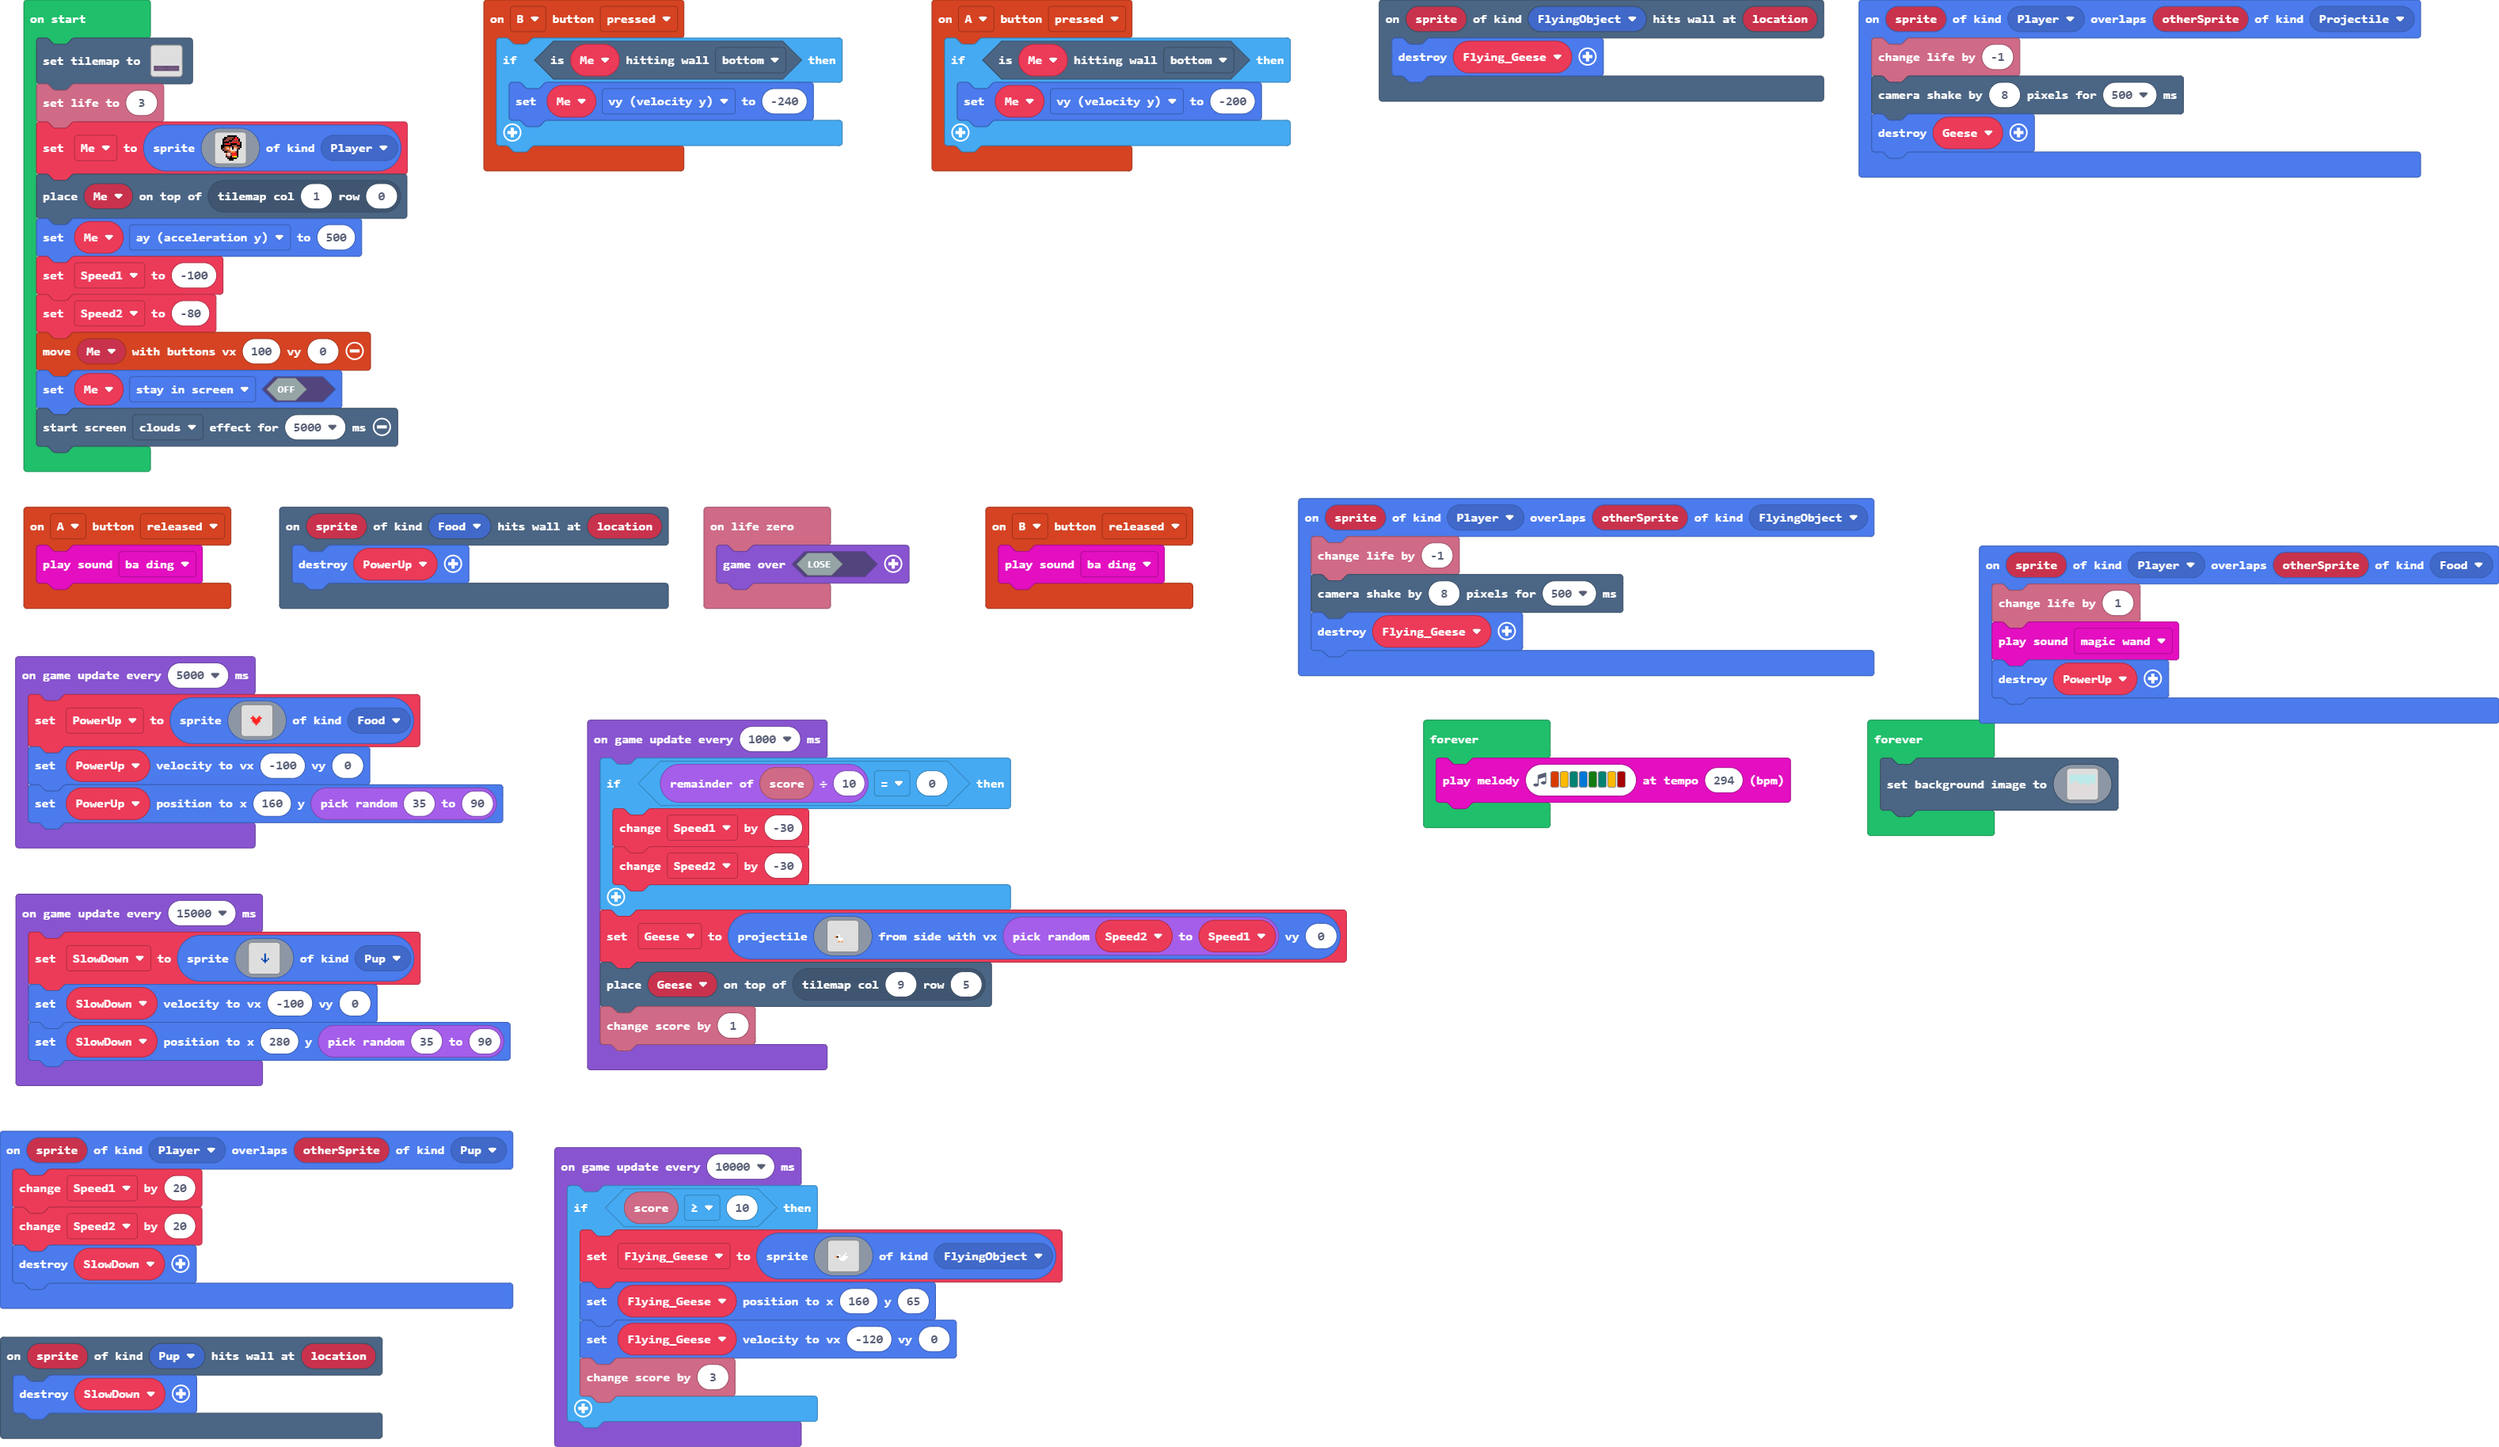
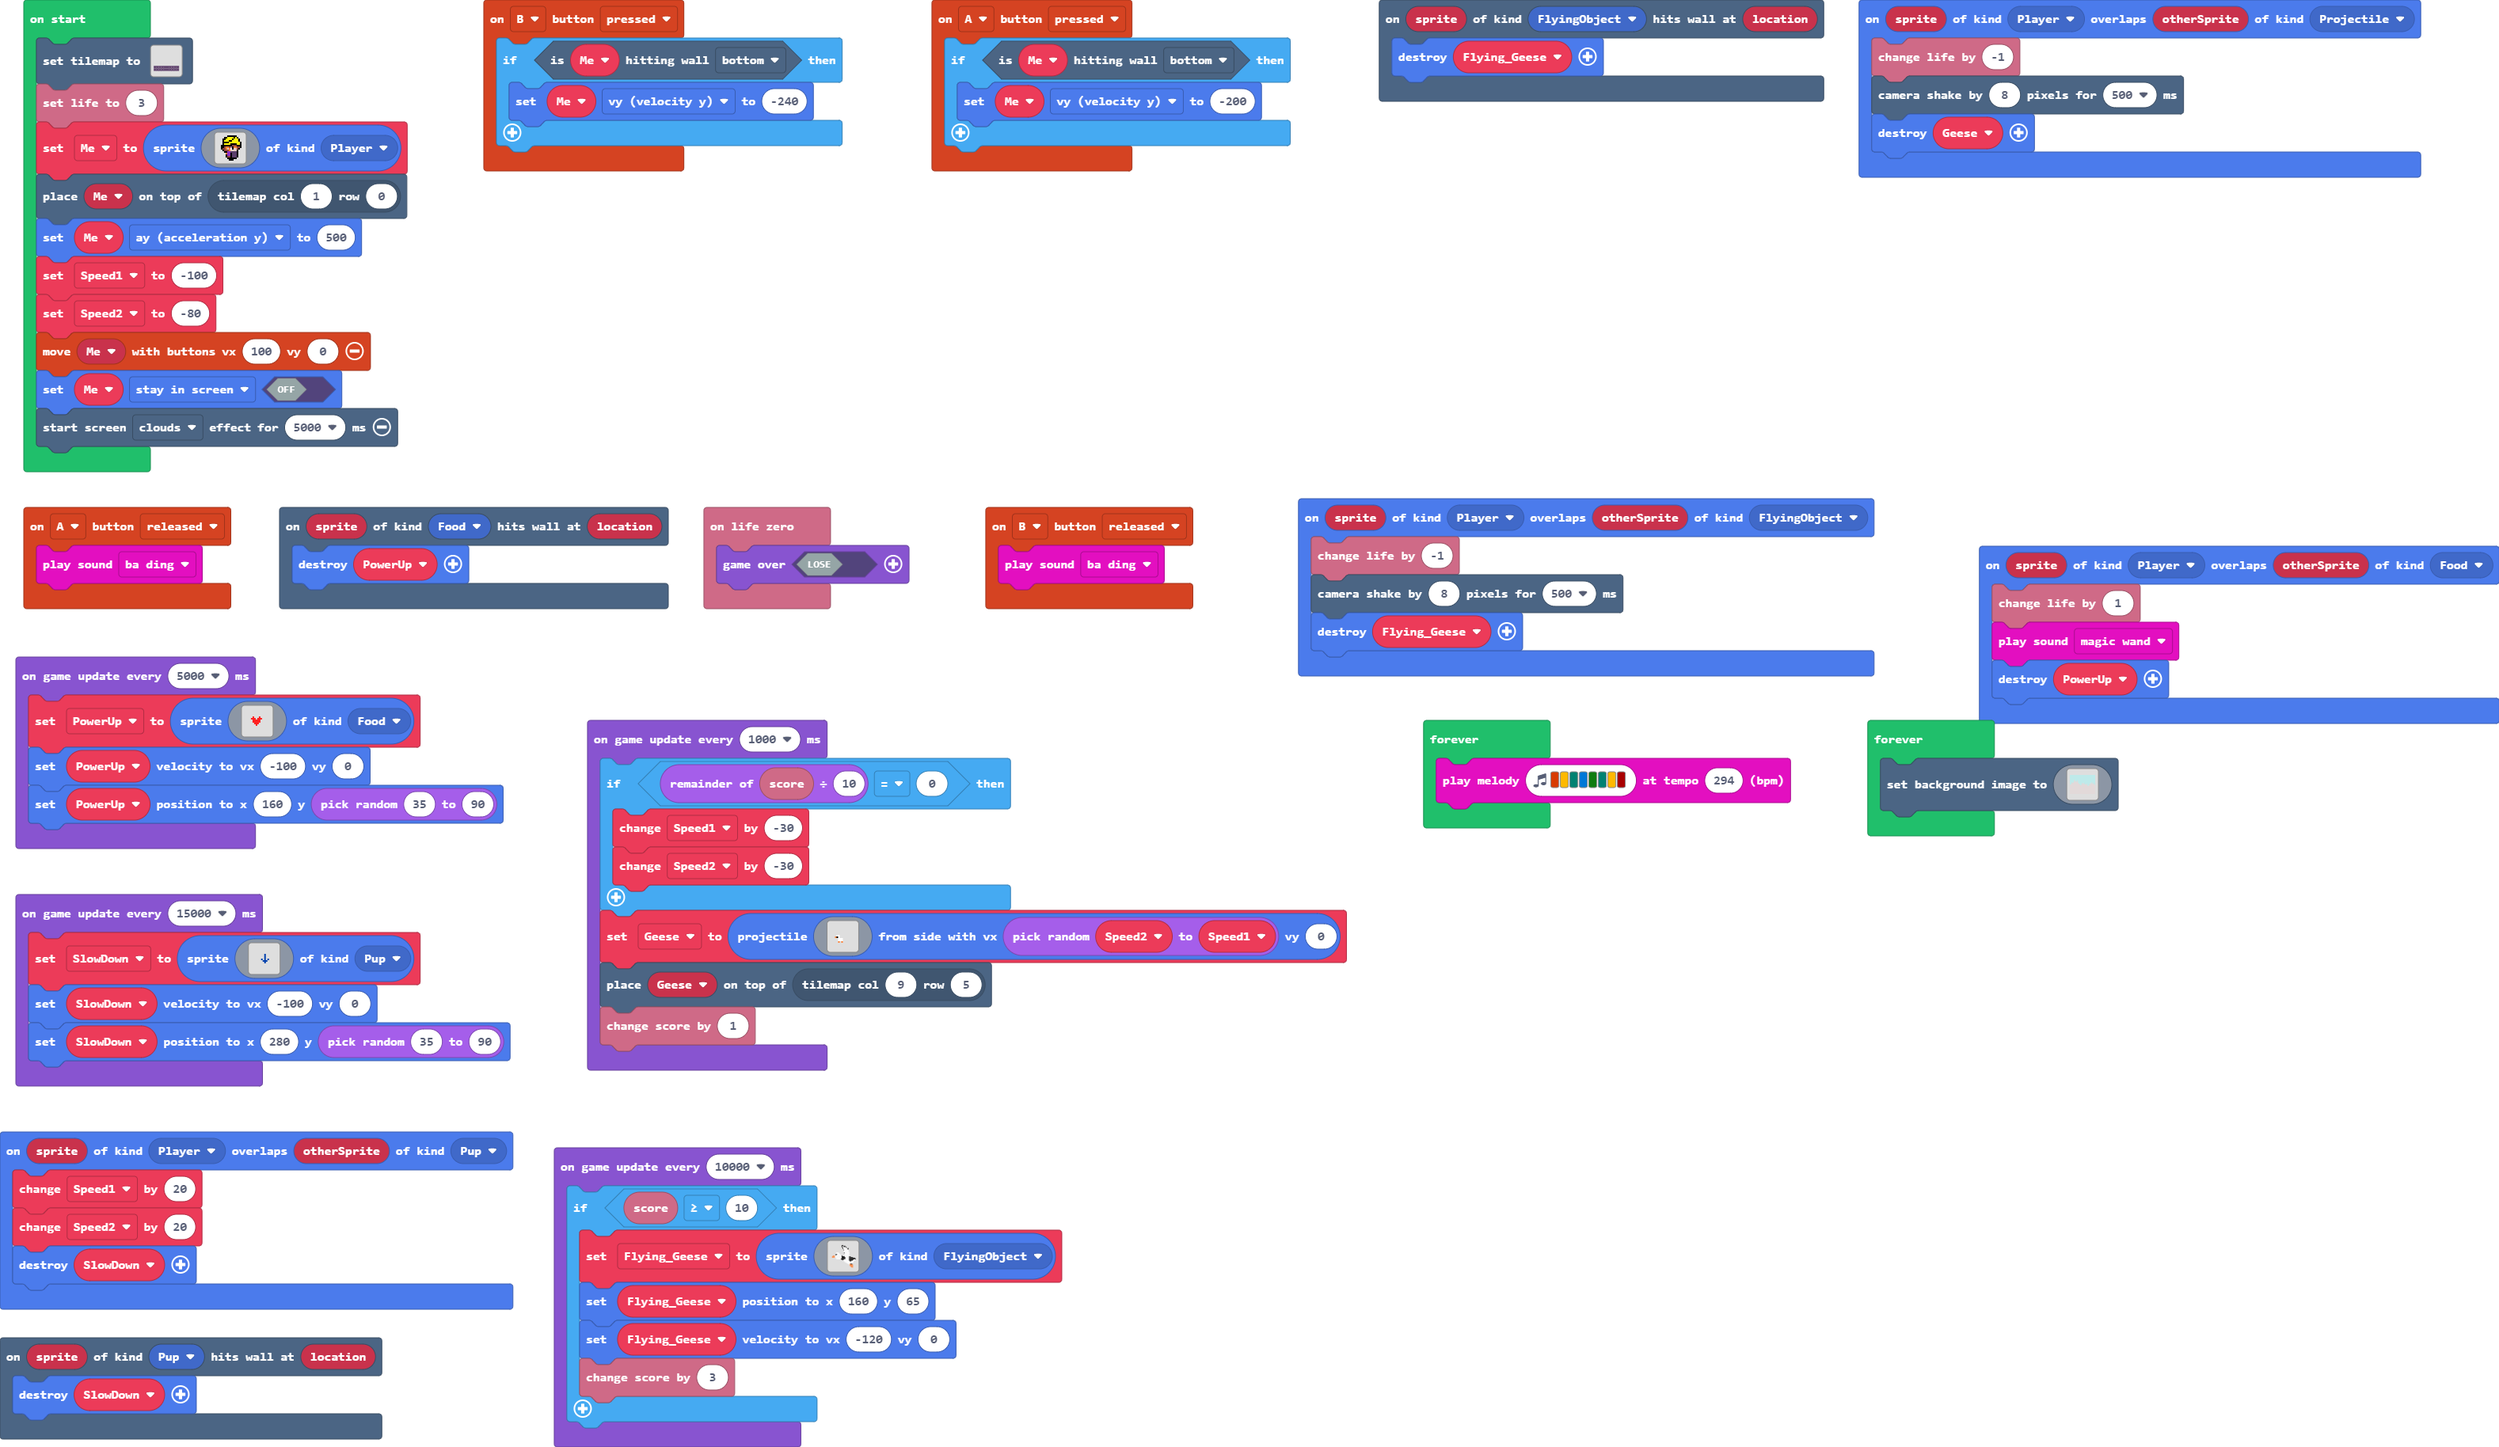
Geese

diff --git a/main.ts b/main.ts
@@ -69,19 +69,19 @@ tiles.setTilemap(tiles.createTilemap(hex`0a0008000000000000000000000000000000000
 info.setLife(3)
 Me = sprites.create(img`
     . . . . . . f f f f f f . . . . 
-    . . . . f f e e e e f 2 f . . . 
-    . . . f f e e e e f 2 2 2 f . . 
-    . . . f e e e f f e e e e f . . 
-    . . . f f f f e e 2 2 2 2 e f . 
-    . . . f e 2 2 2 f f f f e 2 f . 
+    . . . . f f 5 5 5 5 f 5 f . . . 
+    . . . f f 5 5 5 5 f 5 5 5 f . . 
+    . . . f 5 5 5 f f 5 5 5 5 f . . 
+    . . . f f f f 5 5 5 5 5 5 5 f . 
+    . . . f 5 5 5 5 f f f f 5 5 f . 
     . . f f f f f f f e e e f f f . 
     . . f f e 4 4 e b f 4 4 e e f . 
     . . f e e 4 d 4 1 f d d e f . . 
     . . . f e e e 4 d d d d f . . . 
-    . . . . f f e e 4 4 4 e f . . . 
-    . . . . . 4 d d e 2 2 2 f . . . 
-    . . . . . e d d e 2 2 2 f . . . 
-    . . . . . f e e f 4 5 5 f . . . 
+    . . . . f f a a c c c c f . . . 
+    . . . . . 4 a a f c c c f . . . 
+    . . . . . f a a f c c c f . . . 
+    . . . . . f e e f c c c f . . . 
     . . . . . . f f f f f f . . . . 
     . . . . . . . f f f . . . . . . 
     `, SpriteKind.Player)
@@ -292,22 +292,37 @@ forever(function () {
 game.onUpdateInterval(10000, function () {
     if (info.score() >= 10) {
         Flying_Geese = sprites.create(img`
-            . . . . . . . . . . . . . . . . 
-            . . . . . . . . . . . . . . . . 
-            . . . . . . . . . . . . . . . . 
-            . . . . . . . . . . . . . . . . 
-            . . . . . . . . . . . . . . . . 
-            . . . . . . . . . . . . . . . . 
-            . . . . . . . . . 1 . . . . . . 
-            . . . . 1 1 . . 1 . . . . . . . 
-            . . . 4 f 1 . 1 1 1 1 . . . . . 
-            . . . . . 1 1 1 1 1 . . . . . . 
-            . . . . . . 1 1 1 . . . . . . . 
-            . . . . . . . . . . . . . . . . 
-            . . . . . . . . . . . . . . . . 
-            . . . . . . . . . . . . . . . . 
-            . . . . . . . . . . . . . . . . 
-            . . . . . . . . . . . . . . . . 
+            ..................................
+            ...............ff.................
+            ...............f1fff..............
+            ...............f11f1f.............
+            ................f1111f1...........
+            ................f111111f..........
+            .................111111f..........
+            .................f111111..........
+            ..................111111..........
+            ..................111111..........
+            ..................1111111.........
+            ........111.......f111111.........
+            .......11111.......111111.........
+            .......ff1111......111111.........
+            ......1f111111.....111111.........
+            ...444111111111f...111111.........
+            ..4444111111111ffff111111ff.......
+            ..4444111111111fffff11111fffff....
+            .......11111111fffff11111ffffffff.
+            ........111111ffffff11111fffffffff
+            ...............fff1111111ffffff11.
+            .................11111111fffff11..
+            ..................11111111ff111...
+            ...................111111111111...
+            .....................111111111....
+            .......................111111.....
+            .........................14ff.....
+            ..........................4444....
+            ..........................4444....
+            ...........................444....
+            ............................44....
             `, SpriteKind.FlyingObject)
         Flying_Geese.setPosition(160, 65)
         Flying_Geese.setVelocity(-120, 0)

diff --git a/tilemap.g.ts b/tilemap.g.ts
@@ -5,7 +5,7 @@ namespace myTiles {
 
     helpers.registerTilemapFactory(function(name: string) {
         switch(helpers.stringTrim(name)) {
[2 lines of base64/hex data omitted]
 . . . . . . . . . . 
 . . . . . . . . . . 
 . . . . . . . . . . 
@@ -14,8 +14,8 @@ namespace myTiles {
 . . . . . . . . . . 
 2 2 2 2 2 2 2 2 2 2 
 2 2 2 2 2 2 2 2 2 2 
-`, [myTiles.transparency16,sprites.dungeon.darkGroundNorth], TileScale.Sixteen)
[1 lines of base64/hex data omitted]
+`, [myTiles.transparency16,sprites.builtin.forestTiles1,sprites.builtin.forestTiles3,sprites.builtin.forestTiles2,sprites.builtin.forestTiles5,sprites.builtin.forestTiles7,sprites.builtin.forestTiles6], TileScale.Sixteen)
[1 lines of base64/hex data omitted]
 . . . . . . . . . . 
 . . . . . . . . . . 
 . . . . . . . . . . 
@@ -24,7 +24,7 @@ namespace myTiles {
 . . . . . . . . . . 
 2 2 2 2 2 2 2 2 2 2 
 2 2 2 2 2 2 2 2 2 2 
-`, [myTiles.transparency16,sprites.dungeon.darkGroundNorth], TileScale.Sixteen)
+`, [myTiles.transparency16,sprites.builtin.forestTiles1,sprites.builtin.forestTiles3,sprites.builtin.forestTiles2,sprites.builtin.forestTiles5,sprites.builtin.forestTiles7,sprites.builtin.forestTiles6], TileScale.Sixteen)
[1 lines of base64/hex data omitted]
 . . . . . . . . . . 
 . . . . . . . . . . 
